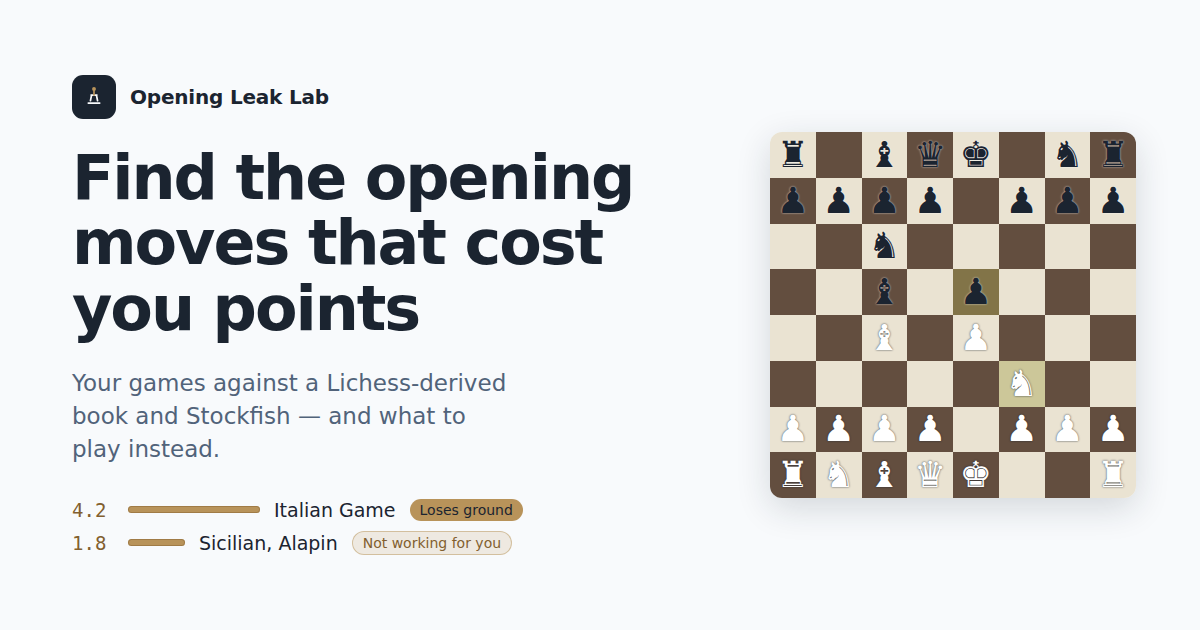
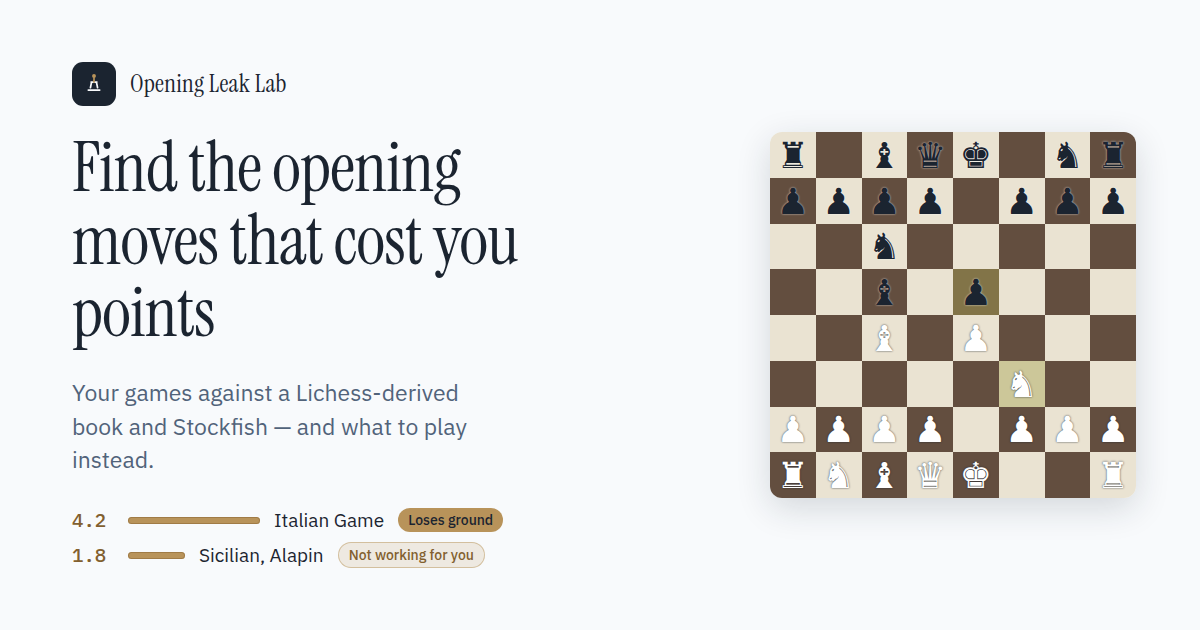
Match the fonts across both pages
The front page and the tool were on two type systems — Instrument Serif
with IBM Plex against Inter with JetBrains Mono — so the colour matched
but the voice did not.

The tool comes to the front page's faces, which keeps the display serif
the design was built around: Instrument Serif for the one big line, IBM
Plex Sans for the interface, IBM Plex Mono for notation, FENs and evals,
where characters lining up is the whole point. The app spends the serif
in the two places it has something to announce — the empty screen's
headline and the wordmark — and stays in the sans everywhere else.

Both pages now request one byte-identical font URL, so clicking through
costs no second download, and the share card is re-rendered to match.

Claude-Session: https://claude.ai/code/session_01VvuqY3bpgG374UUP4iPiXh

diff --git a/chess-dashboard/public/app/styles.css b/chess-dashboard/public/app/styles.css
@@ -57,8 +57,11 @@
   --light-sq: var(--board-light);
   --dark-sq: var(--board-dark);
 
-  --font: 'Inter', system-ui, -apple-system, sans-serif;
-  --mono: 'JetBrains Mono', ui-monospace, monospace;
+  /* one type system with the front page: a display serif, a UI sans, and a
+     mono that only ever carries notation, FENs and evals */
+  --display: 'Instrument Serif', Georgia, serif;
+  --font: 'IBM Plex Sans', system-ui, -apple-system, sans-serif;
+  --mono: 'IBM Plex Mono', ui-monospace, monospace;
   --r-sm: 5px;
   --r: 8px;
   --r-lg: 10px;
@@ -144,7 +147,7 @@ code { font-family: var(--mono); font-size: 0.92em; background: var(--surface-3)
 /* ----------------------------------------------------------------- sidebar */
 .brand { display: flex; gap: 10px; align-items: center; color: var(--on-navy); text-decoration: none; }
 .brand-mark { width: 30px; height: 30px; flex: none; color: rgba(248, 250, 252, 0.7); }
-.brand-text strong { font-size: 13.5px; font-weight: 600; }
+.brand-text strong { font-family: var(--display); font-weight: 400; font-size: 19px; letter-spacing: 0.01em; }
 
 .nav { display: flex; flex-direction: column; gap: 1px; }
 .nav-item {
@@ -201,7 +204,10 @@ code { font-family: var(--mono); font-size: 0.92em; background: var(--surface-3)
 /* ------------------------------------------------------- the empty screen */
 .gate { display: grid; place-items: center; flex: 1; padding: 4vh 0 6vh; }
 .gate-inner { width: min(680px, 100%); }
-.gate-title { font-size: clamp(22px, 3.4vw, 30px); letter-spacing: -0.02em; line-height: 1.2; }
+.gate-title {
+  font-family: var(--display); font-weight: 400;
+  font-size: clamp(30px, 4.6vw, 46px); letter-spacing: -0.01em; line-height: 1.08;
+}
 .gate-lead { margin: 12px 0 22px; font-size: 14.5px; color: var(--text-muted); max-width: 56ch; }
 .gate-demo { display: flex; align-items: center; gap: 14px; flex-wrap: wrap; margin-top: 18px; }
 .btn-demo { padding: 9px 14px; font-size: 13px; }

diff --git a/chess-dashboard/public/index.html b/chess-dashboard/public/index.html
@@ -13,7 +13,7 @@
     <link rel="preconnect" href="https://fonts.googleapis.com" />
     <link rel="preconnect" href="https://fonts.gstatic.com" crossorigin />
     <link
-      href="https://fonts.googleapis.com/css2?family=Instrument+Serif:ital@0;1&amp;family=IBM+Plex+Sans:wght@400;500;600&amp;family=IBM+Plex+Mono:wght@400;500&amp;display=swap"
+      href="https://fonts.googleapis.com/css2?family=Instrument+Serif:ital@0;1&amp;family=IBM+Plex+Sans:wght@400;500;600;700&amp;family=IBM+Plex+Mono:wght@400;500;600&amp;display=swap"
       rel="stylesheet"
     />
     <link rel="stylesheet" href="./landing.css" />

diff --git a/chess-dashboard/public/app/index.html b/chess-dashboard/public/app/index.html
@@ -13,7 +13,7 @@
     <link rel="preconnect" href="https://fonts.googleapis.com" />
     <link rel="preconnect" href="https://fonts.gstatic.com" crossorigin />
     <link
-      href="https://fonts.googleapis.com/css2?family=Inter:wght@400;500;600;700&family=JetBrains+Mono:wght@400;500;700&display=swap"
+      href="https://fonts.googleapis.com/css2?family=Instrument+Serif:ital@0;1&amp;family=IBM+Plex+Sans:wght@400;500;600;700&amp;family=IBM+Plex+Mono:wght@400;500;600&amp;display=swap"
       rel="stylesheet"
     />
     <link rel="stylesheet" href="./styles.css" />

diff --git a/chess-dashboard/public/app/app.js b/chess-dashboard/public/app/app.js
@@ -667,7 +667,7 @@ function renderSummaryBand() {
 }
 
 /* One chart panel, one chart, a toggle between the two readings of it. */
-const CHART_FONT = { family: "'Inter', sans-serif", size: 11 };
+const CHART_FONT = { family: "'IBM Plex Sans', sans-serif", size: 11 };
 function renderChart() {
   // the chart library is a CDN script: without it the panel has nothing to say,
   // so it does not render at all rather than leaving an empty frame

diff --git a/chess-dashboard/README.md b/chess-dashboard/README.md
@@ -40,6 +40,11 @@ starts that run on arrival rather than asking for the username a second time.
 Each of those is read once and then cleared from the URL, so a reload does not
 repeat it.
 
+Both pages run the same type system — Instrument Serif for the display line,
+IBM Plex Sans for the interface, IBM Plex Mono wherever characters have to line
+up (notation, FENs, evals) — from one Google Fonts request that is byte-identical
+on both, so moving between them costs no extra download.
+
 Both pages run the brand palette. The front page uses its dark half — Deep Navy
 bands, Off-White type, Aged Brass for branding and the call to action — and the
 tool uses its light half; the board, the move that loses ground (Muted Crimson)
